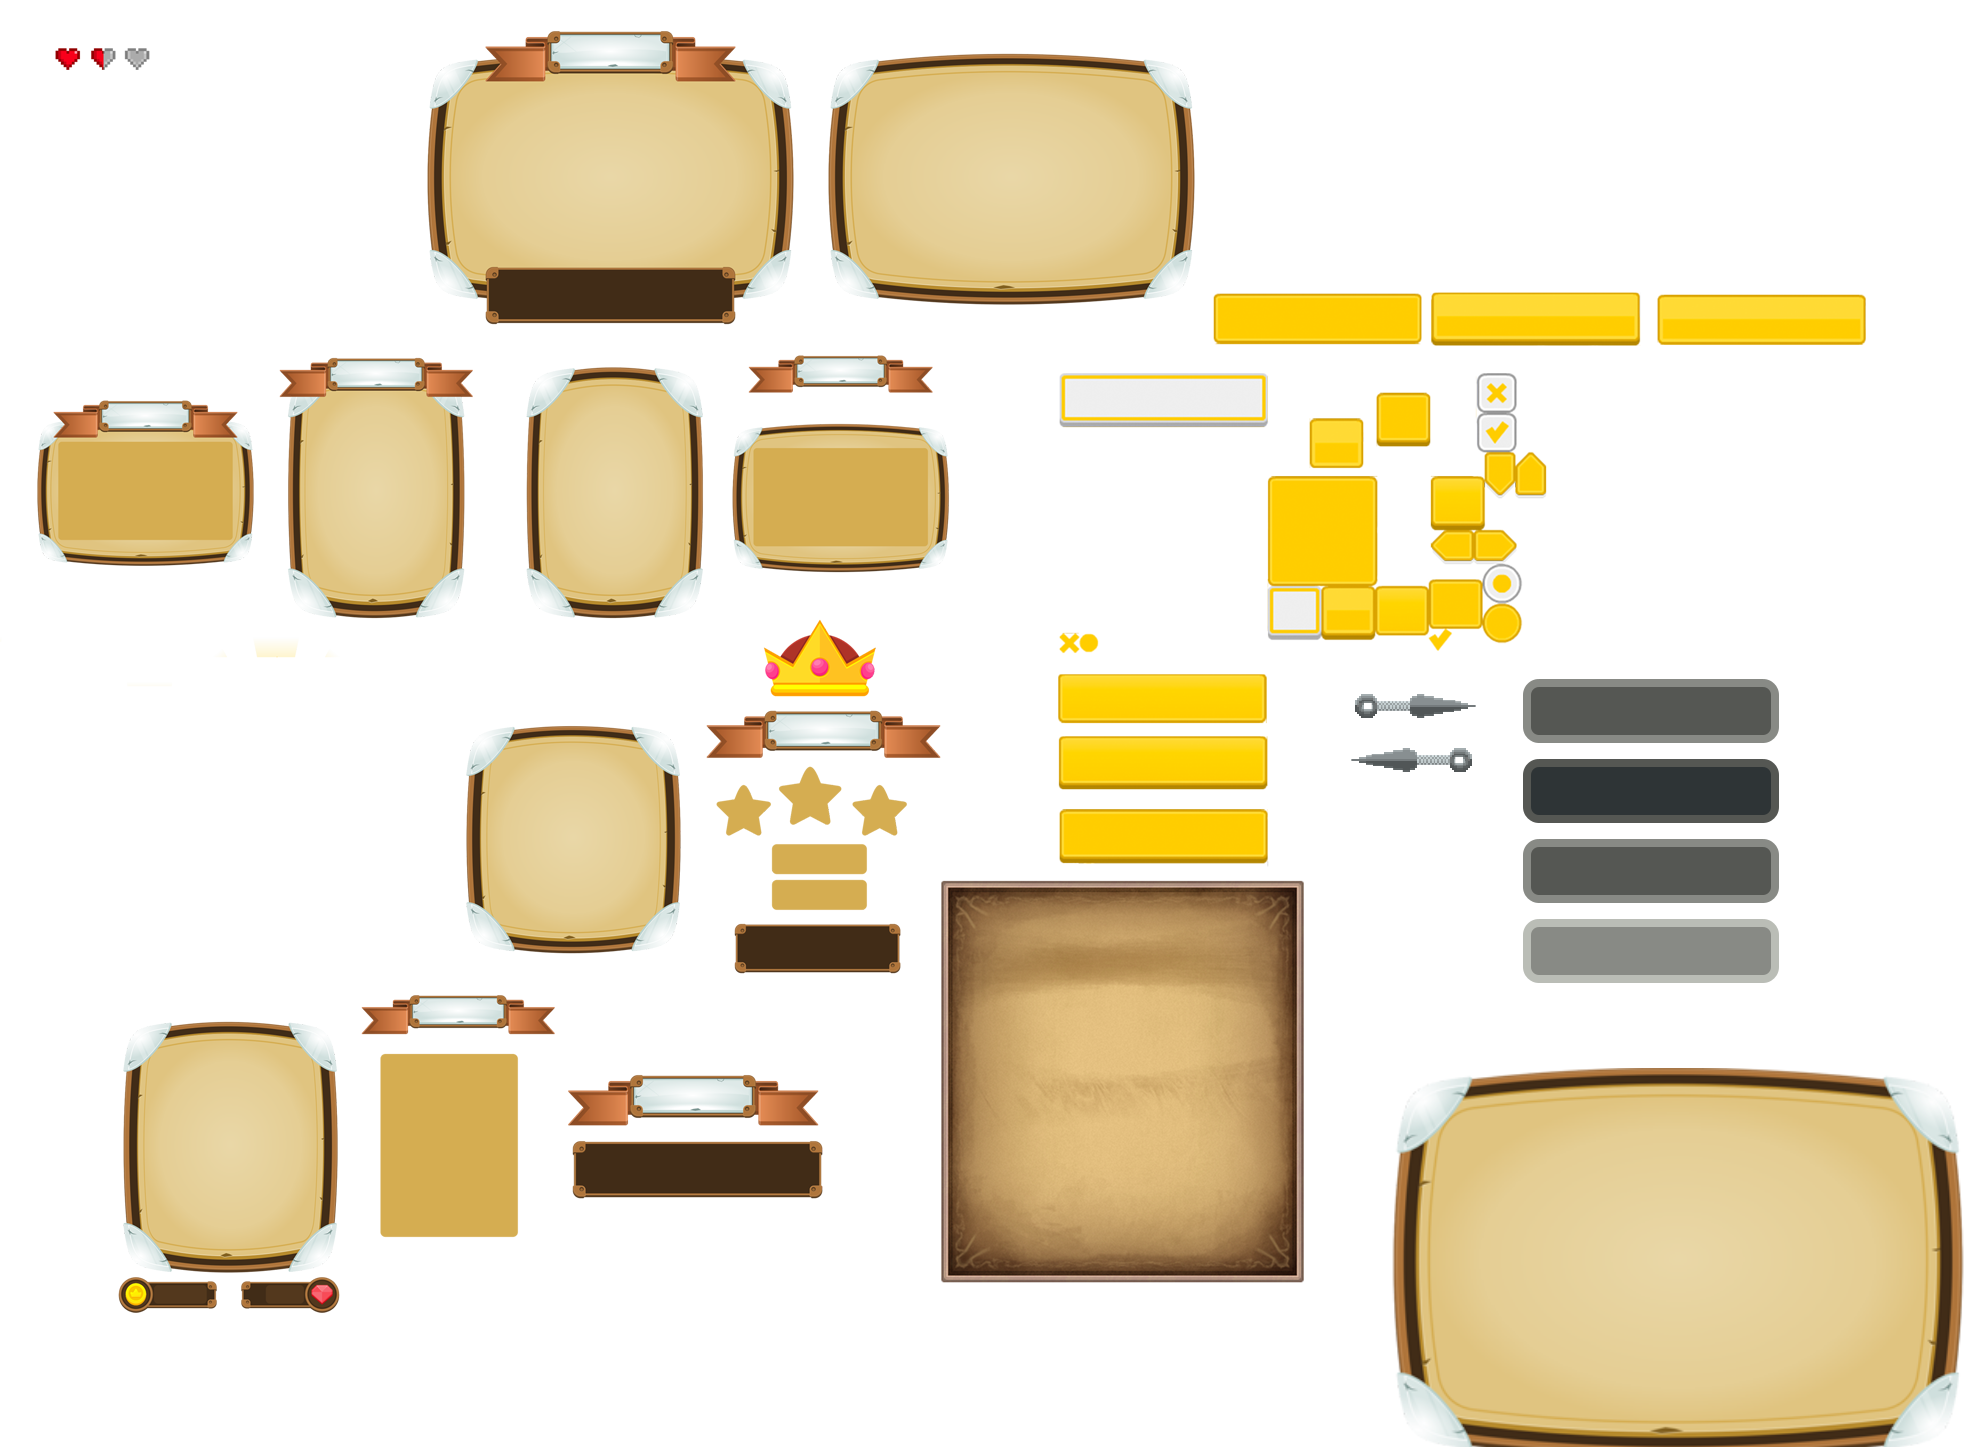
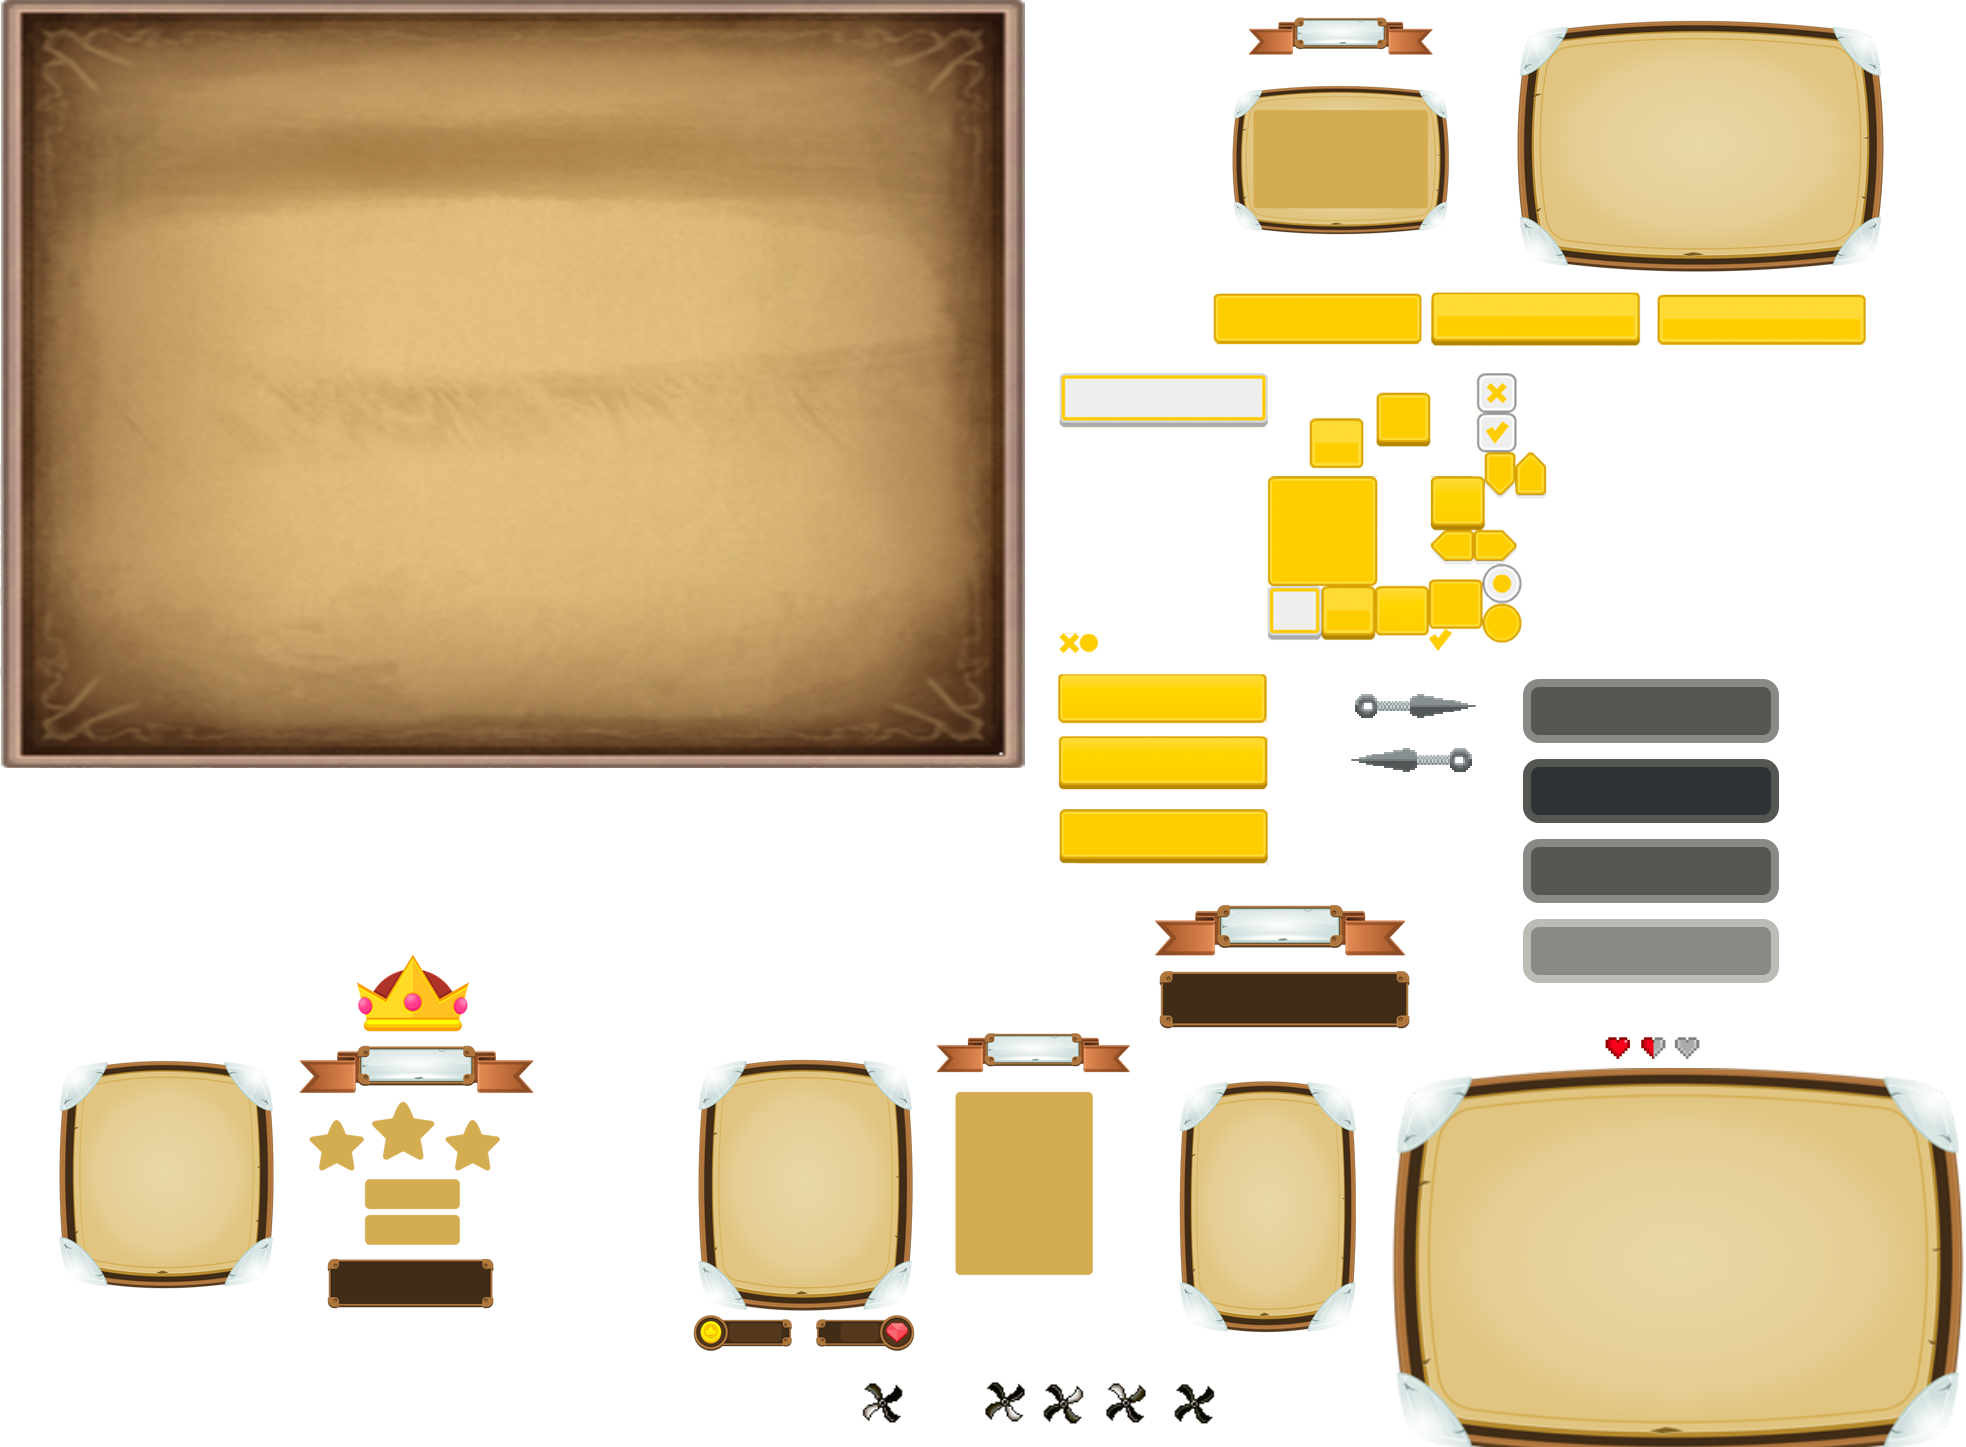
Button exit + animation in image

diff --git a/Game-Exercise/Motor2D/MainMenu.cpp b/Game-Exercise/Motor2D/MainMenu.cpp
@@ -41,8 +41,11 @@ bool MainMenu::Awake()
 // Called before the first frame
 bool MainMenu::Start()
 {
-	//background = App->gui->AddImage(0, 0, {1385,881,362,401});
-	btn_play = App->gui->AddButton(App->win->width/2 -128, App->win->height/2, { 1523,919,256,64 } , { 1523,679,256,64 }, { 1523,759,256,64 });
+	SDL_Rect bck = { 0,0,1024,768 };
+	background = App->gui->AddImage(0, 0, &bck,nullptr);
+	btn_play = App->gui->AddButton(App->win->width/2 -150,50, { 1523,919,256,64 } , { 1523,679,256,64 }, { 1523,759,256,64 });
+	btn_exit = App->gui->AddButton(App->win->width / 2 - 150, 150, { 1523,919,256,64 }, { 1523,679,256,64 }, { 1523,759,256,64 });
+	btn_settings = App->gui->AddButton(App->win->width / 2 - 150, 250, { 1523,919,256,64 }, { 1523,679,256,64 }, { 1523,759,256,64 });
 	return true;
 }
 
@@ -59,6 +62,8 @@ bool MainMenu::Update(float dt)
 	BROFILER_CATEGORY("SceneUpdate", Profiler::Color::MediumOrchid);
 	//DEBUG KEYS
 	MouseIn(btn_play);
+	MouseIn(btn_exit);
+	MouseIn(btn_settings);
 
 
 	App->input->GetMousePosition(mouse_x, mouse_y);
@@ -71,7 +76,7 @@ bool MainMenu::PostUpdate()
 	BROFILER_CATEGORY("ScenePostUpdate", Profiler::Color::Navy);
 	bool ret = true;
 
-	if (App->input->GetKey(SDL_SCANCODE_ESCAPE) == KEY_DOWN)
+	if (close == true)
 		ret = false;
 
 	return ret;
@@ -94,8 +99,9 @@ void MainMenu::MouseIn(GUI* element)
 		{
 			ex2->setAnimation(2);
 			if (delete_kunais == false) {
-				kunai_left = App->gui->AddImage(element->position.x - 150, element->position.y + 10, { 1346,685,135,42 });
-				kunai_right = App->gui->AddImage(element->position.x + 270, element->position.y + 10, { 1346,739,135,42 });
+				App->gui->AddImage(0, 0, nullptr, nullptr);
+				kunai_left = App->gui->AddImage(element->position.x - 60, element->position.y + 10,nullptr, &App->gui->shuriken);
+				kunai_right = App->gui->AddImage(element->position.x + 270, element->position.y + 10, nullptr, &App->gui->shuriken);
 				delete_kunais = true;
 			}
 		}
@@ -126,7 +132,7 @@ void MainMenu::MouseIn(GUI* element)
 
 void MainMenu::Interact(GUI* g)
 {
-	if (g->type == BUTTON)
+	if (g->position.y == 50)
 	{
 		App->fade_to_black->FadeToBlack(this,App->scene, 3.0f);
 		App->scene->active = true;
@@ -134,6 +140,10 @@ void MainMenu::Interact(GUI* g)
 		
 		this->active = false;
 		delete g;
+	}
+	else if (g->position.y == 250)
+	{
+		close = true;
 	}
 	
 }

diff --git a/Game-Exercise/Motor2D/j1Gui.cpp b/Game-Exercise/Motor2D/j1Gui.cpp
@@ -37,6 +37,12 @@ bool j1Gui::Awake(pugi::xml_node& conf)
 bool j1Gui::Start()
 {
 	atlas = App->tex->Load(atlas_file_name.GetString());
+	shuriken.PushBack({ 863,1383,40,40 });
+	shuriken.PushBack({ 985,1382,40,40 });
+	shuriken.PushBack({ 1043,1384,40,40 });
+	shuriken.PushBack({ 1106,1383,40,40 });
+	shuriken.PushBack({ 1175,1384,40,40 });
+
 	return true;
 }
 
@@ -89,9 +95,9 @@ const SDL_Texture* j1Gui::GetAtlas() const
 
 // class Gui ---------------------------------------------------
 
-GUI* j1Gui::AddImage(int x, int y, SDL_Rect rect)
+GUI* j1Gui::AddImage(int x, int y, SDL_Rect* rect, Animation* anim)
 {
-	GUI* image = new GUI_Image(x, y, rect, IMAGE);
+	GUI* image = new GUI_Image(x, y, IMAGE,anim, rect);
 	ui_list.PushBack(image);
 	return image;
 }

diff --git a/Game-Exercise/Motor2D/j1Gui.h b/Game-Exercise/Motor2D/j1Gui.h
@@ -2,6 +2,8 @@
 #define __j1GUI_H__
 
 #include "j1Module.h"
+#include "Animation.h"
+#include "p2Defs.h"
 #include "p2DynArray.h"
 
 #define CURSOR_WIDTH 2
@@ -47,7 +49,7 @@ public:
 
 	// TODO 2: Create the factory methods
 	// Gui creation functions
-	GUI* AddImage(int x, int y, SDL_Rect rect);
+	GUI* AddImage(int x, int y, SDL_Rect* rect, Animation* anim);
 	GUI* AddLabel(int x, int y, p2SString text);
 	GUI* AddButton(int x, int y, SDL_Rect normal, SDL_Rect mouse_in, SDL_Rect clicked);
 	void MoveGui(GUI* type, float dt);
@@ -62,6 +64,8 @@ private:
 	p2SString background_heart_file_name = nullptr;
 	SDL_Texture* background_heart = nullptr;
 	p2DynArray<GUI*> ui_list;
+public:
+	Animation shuriken;
 };
 
 #endif // __j1GUI_H__

diff --git a/Game-Exercise/Motor2D/GUI_Image.cpp b/Game-Exercise/Motor2D/GUI_Image.cpp
@@ -1,15 +1,22 @@
 #include "j1App.h"
+#include "p2Defs.h"
 #include "GUI_Image.h"
 #include "p2Log.h"
 
 
-GUI_Image::GUI_Image(int x, int y, SDL_Rect rect, UI type) : GUI(x, y)
+GUI_Image::GUI_Image(int x, int y, UI type,Animation* anim, SDL_Rect* rect) : GUI(x, y)
 {
 	position.x = x;
 	position.y = y;
-	animation = rect;
+	if(rect != nullptr)
+	animation = *rect;
+
 	LOG("UIImage created in x:%i, y:%i", x, y);
 
-	anim.PushBack()
-
+	if (anim != nullptr)
+	{
+		animation2 = anim;
+		animation2->speed = 0.15f;
+		animation2->loop = true;
+	}
 }

diff --git a/Game-Exercise/Motor2D/GUI.cpp b/Game-Exercise/Motor2D/GUI.cpp
@@ -29,8 +29,12 @@ void GUI::Draw(SDL_Texture* sprites)
 	{
 		App->render->Blit(texture, position.x, position.y, &animation, 1);
 	}
-	else
+	else if (type == BUTTON)
 	{
-		App->render->Blit_UI(sprites, position.x, position.y, &animation, 1);
+		App->render->Blit_UI(sprites, position.x, position.y,&animation);
 	}
+	if(animation2 != nullptr)
+	App->render->Blit_UI(sprites, position.x, position.y, &(animation2->GetCurrentFrame()), 1);
+	if(animation2 == nullptr)
+		App->render->Blit_UI(sprites, position.x, position.y, &animation);
 }

diff --git a/Game-Exercise/Motor2D/j1App.cpp b/Game-Exercise/Motor2D/j1App.cpp
@@ -60,7 +60,7 @@ j1App::j1App(int argc, char* args[]) : argc(argc), args(args)
 	AddModule(audio);
 	AddModule(map);
 	AddModule(pathfinding);
-	AddModule(main_menu);
+	
 	AddModule(scene);
 	
 	AddModule(collision);
@@ -68,7 +68,7 @@ j1App::j1App(int argc, char* args[]) : argc(argc), args(args)
 	AddModule(entities);
 	AddModule(fade_to_black);
 	AddModule(gui);
-
+	AddModule(main_menu);
 	// render last to swap buffer
 	AddModule(render);
 

diff --git a/Game-Exercise/Motor2D/MainMenu.h b/Game-Exercise/Motor2D/MainMenu.h
@@ -42,8 +42,11 @@ private:
 	bool is_faded = false;
 	bool change_map = false;
 	bool change_music = false;
+	bool close = false;
 	GUI* background = NULL;
 	GUI* btn_play = NULL;
+	GUI* btn_settings;
+	GUI* btn_exit = NULL;
 	GUI* kunai_left;
 	GUI* kunai_right;
 
@@ -51,6 +54,7 @@ private:
 
 public:
 	int mouse_x, mouse_y;
+	
 };
 
 #endif // __MAINMENU_H__

diff --git a/Game-Exercise/Motor2D/GUI_Image.h b/Game-Exercise/Motor2D/GUI_Image.h
@@ -2,6 +2,7 @@
 #define _GUI_IMAGE_H__
 
 #include "GUI.h"
+#include "p2Defs.h"
 
 
 class GUI_Image : public GUI
@@ -11,7 +12,7 @@ private:
 	Animation anim;
 
 public:
-	GUI_Image(int x, int y, SDL_Rect rect, UI type);
+	GUI_Image(int x, int y, UI type, Animation* anim, SDL_Rect* rect = NULL);
 
 };
 #endif //_GUI_IMAGE_H__

diff --git a/Game-Exercise/Motor2D/j1Scene.cpp b/Game-Exercise/Motor2D/j1Scene.cpp
@@ -39,7 +39,7 @@ bool j1Scene::Awake()
 bool j1Scene::Start()
 {
 
-	full_heart = App->gui->AddImage(20, 20, { 55, 48, 26, 22 });
+	//full_heart = App->gui->AddImage(20, 20, { 55, 48, 26, 22 });
 
 	if (!is_faded && map_number == 1)
 	{

diff --git a/Game-Exercise/Motor2D/GUI.h b/Game-Exercise/Motor2D/GUI.h
@@ -17,6 +17,7 @@ public:
 	UI type = UI::NON;
 	iPoint position;
 	SDL_Rect animation = { 0,0,0,0 };
+	Animation* animation2;
 	SDL_Texture* texture = nullptr;
 	bool delete_ui = false;
 
